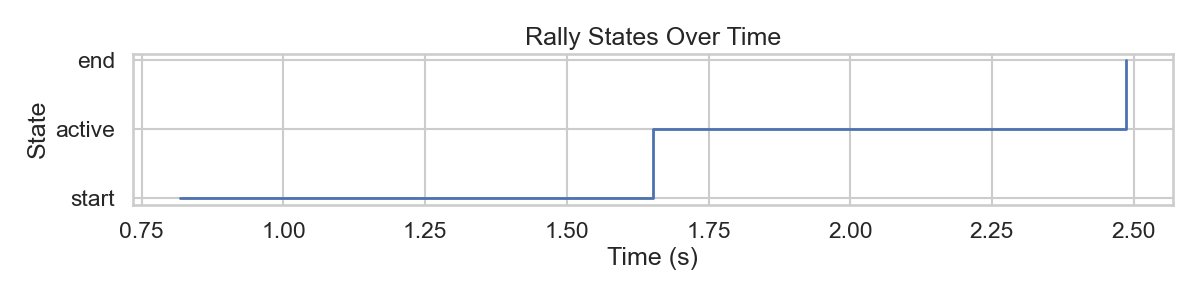
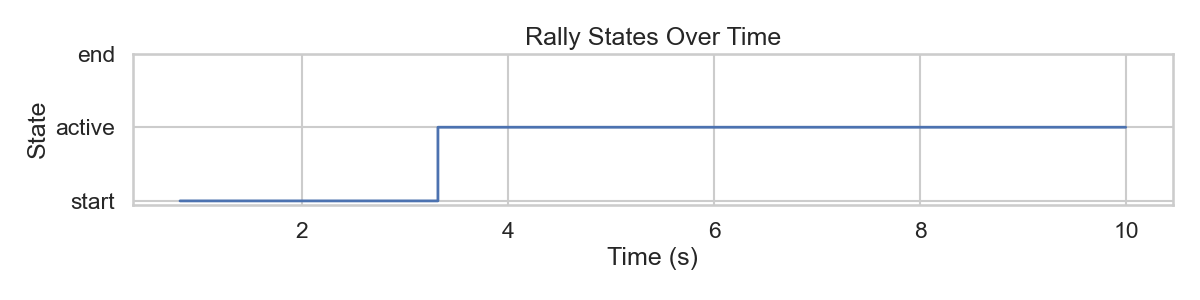
Add postprocessing to rally states

diff --git a/cv-module/full-pipeline/data/data_collector.py b/cv-module/full-pipeline/data/data_collector.py
@@ -3,6 +3,7 @@
 from typing import Optional, List
 import numpy as np
 from scipy.signal import find_peaks
+from copy import deepcopy
 from .data_models import FrameData, PlayerData, BallData, CourtData, RallyData
 from .validators import DataValidator
 from .post_processors import TemporalSmoother, MissingDataHandler
@@ -36,6 +37,7 @@ class DataCollector:
         prominence: float = 50.0,
         width: int = 3,
         min_distance: int = 20,
+        min_states_duration: dict = {},
     ):
         """
         Initialize data collector.
@@ -51,6 +53,10 @@ class DataCollector:
             max_position_change: Maximum position change between frames
             handle_missing_data: Whether to handle missing data (post-processing)
             max_interpolation_frames: Maximum frames to interpolate
+            prominence: Minimum prominence for peak detection
+            width: Minimum width for peak detection
+            min_distance: Minimum distance between peaks
+            min_states_duration: Minimum duration for each rally state
         """
         self.enable_smoothing = enable_smoothing
         self.smoothing_window = smoothing_window
@@ -65,6 +71,7 @@ class DataCollector:
         self.prominence = prominence
         self.width = width
         self.min_distance = min_distance
+        self.min_states_duration = min_states_duration
 
         # Initialize validator (used during collection)
         self.validator = (
@@ -74,6 +81,18 @@ class DataCollector:
             )
             if enable_validation
             else None
+        )
+
+        self.smoother = TemporalSmoother(
+            window_size=self.smoothing_window,
+            median_window=self.median_window,
+            savgol_window=self.savgol_window,
+            savgol_poly=self.savgol_poly,
+            min_states_duration=self.min_states_duration,
+        )
+
+        self.interpolator = MissingDataHandler(
+            max_interpolation_frames=self.max_interpolation_frames
         )
 
         # Storage
@@ -203,10 +222,28 @@ class DataCollector:
         Returns:
             List of processed RallyData objects
         """
-        rallies = self._segment_rallies()
+        # Deep copy to avoid modifying raw_frame_history during post-processing
+        raw_frames = deepcopy(self.raw_frame_history)
+        rally_states = [f.rally_state for f in raw_frames]
+        rally_states_smoothed = self.smoother.smooth_rally_states(rally_states)
+
+        for i, frame in enumerate(raw_frames):
+            frame.rally_state = rally_states_smoothed[i]
+
+        rallies = self._segment_rallies(raw_frames)
         processed_rallies = []
         for rally in rallies:
             processed = self._post_process_rally(rally.rally_frames)
+            for frame in processed:
+                if (
+                    frame.player2.position is None
+                    or frame.player2.bbox is None
+                    or frame.player2.keypoints is None
+                    or frame.player2.real_position is None
+                ):
+                    print(
+                        f"Player 2 data missing for frame {frame.frame_number}, data: {frame.player2}"
+                    )
             processed_rallies.append(processed)
 
         # Flatten processed rallies into a single list of frames
@@ -246,13 +283,13 @@ class DataCollector:
 
         return rally_frames
 
-    def _segment_rallies(self) -> List[RallyData]:
+    def _segment_rallies(self, frames: List[FrameData]) -> List[RallyData]:
         """Segment frames into rallies based on rally state."""
         rallies = []
         current_rally = []
         in_rally = False
 
-        for frame in self.raw_frame_history:
+        for frame in frames:
             if frame.rally_state == "start" and not in_rally:
                 in_rally = True
                 current_rally = [frame]
@@ -294,11 +331,6 @@ class DataCollector:
             frames: List of frames to interpolate (modified in-place)
             validation_results: Validation results for each frame
         """
-        # Create interpolator
-        interpolator = MissingDataHandler(
-            max_interpolation_frames=self.max_interpolation_frames
-        )
-
         # Extract player and ball data
         p1_data = [f.player1 for f in frames]
         p2_data = [f.player2 for f in frames]
@@ -309,13 +341,13 @@ class DataCollector:
         ball_valid = [v["ball_valid"] for v in validation_results]
 
         # Interpolate each dataset
-        p1_interpolated = interpolator.handle_missing_player(
+        p1_interpolated = self.interpolator.handle_missing_player(
             p1_data, player_id=1, validation_results=p1_valid
         )
-        p2_interpolated = interpolator.handle_missing_player(
+        p2_interpolated = self.interpolator.handle_missing_player(
             p2_data, player_id=2, validation_results=p2_valid
         )
-        ball_interpolated = interpolator.handle_missing_ball(
+        ball_interpolated = self.interpolator.handle_missing_ball(
             ball_data, validation_results=ball_valid
         )
 
@@ -333,23 +365,15 @@ class DataCollector:
         Args:
             frames: List of frames to smooth (modified in-place)
         """
-        # Create smoother
-        smoother = TemporalSmoother(
-            window_size=self.smoothing_window,
-            median_window=self.median_window,
-            savgol_window=self.savgol_window,
-            savgol_poly=self.savgol_poly,
-        )
-
         # Extract player and ball data
         p1_data = [f.player1 for f in frames]
         p2_data = [f.player2 for f in frames]
         ball_data = [f.ball for f in frames]
 
         # Smooth each dataset
-        p1_smoothed = smoother.smooth_player_positions(p1_data, player_id=1)
-        p2_smoothed = smoother.smooth_player_positions(p2_data, player_id=2)
-        ball_smoothed = smoother.smooth_ball_positions(ball_data)
+        p1_smoothed = self.smoother.smooth_player_positions(p1_data, player_id=1)
+        p2_smoothed = self.smoother.smooth_player_positions(p2_data, player_id=2)
+        ball_smoothed = self.smoother.smooth_ball_positions(ball_data)
 
         # Update frames in-place
         for i, frame in enumerate(frames):

diff --git a/cv-module/full-pipeline/data/post_processors.py b/cv-module/full-pipeline/data/post_processors.py
@@ -4,7 +4,7 @@ from collections import deque
 from typing import Optional, Tuple, List
 import numpy as np
 from scipy.signal import medfilt, savgol_filter
-from .data_models import PlayerData, BallData
+from .data_models import FrameData, PlayerData, BallData
 
 
 class TemporalSmoother:
@@ -16,6 +16,7 @@ class TemporalSmoother:
         median_window: int = 5,
         savgol_window: int = 11,
         savgol_poly: int = 3,
+        min_states_duration: dict = {},
     ):
         """
         Initialize temporal smoother.
@@ -25,6 +26,7 @@ class TemporalSmoother:
             median_window: Window size for median filter (must be odd)
             savgol_window: Window length for Savitzky-Golay filter (must be odd)
             savgol_poly: Polynomial order for Savitzky-Golay filter
+            min_states_duration: Minimum duration for each rally state
         """
         self.window_size = window_size
         self.median_window = (
@@ -39,6 +41,7 @@ class TemporalSmoother:
             2: deque(maxlen=window_size),
         }
         self.ball_position_history = deque(maxlen=window_size)
+        self.min_states_duration = min_states_duration
 
     def smooth_player_positions(
         self, player_data_list: List[PlayerData], player_id: int
@@ -162,6 +165,59 @@ class TemporalSmoother:
                 smoothed.append(ball_data if ball_data else BallData())
 
         return smoothed
+
+    def smooth_rally_states(self, rally_states: List[str]) -> List[str]:
+        postprocessed = rally_states.copy()
+
+        valid_transitions = {
+            "start": ["start", "active"],
+            "active": ["active", "end"],
+            "end": ["end", "start"],
+        }
+
+        # Always start with "start" state
+        current_committed_state = postprocessed[0]
+        print(f"Starting with state: {current_committed_state}")
+
+        i = 1
+        while i < len(rally_states):
+            candidate_state = rally_states[i]
+
+            # Check if this is a valid transition
+            if candidate_state not in valid_transitions[current_committed_state]:
+                # Invalid transition - replace with current committed state
+                postprocessed[i] = current_committed_state
+                i += 1
+                continue
+
+            # If same state as current, just continue
+            if candidate_state == current_committed_state:
+                postprocessed[i] = current_committed_state
+                i += 1
+                continue
+
+            # Valid new state - check if it persists long enough
+            # Count consecutive occurrences of this candidate state
+            count = 1
+            j = i + 1
+            while j < len(rally_states) and rally_states[j] == candidate_state:
+                count += 1
+                j += 1
+
+            # Check if candidate state meets minimum duration requirement
+            if count >= self.min_states_duration.get(candidate_state, 3):
+                # Real transition - commit it
+                for k in range(i, j):
+                    postprocessed[k] = candidate_state
+                current_committed_state = candidate_state
+                i = j
+            else:
+                # Fluctuation - reject it and replace with current committed state
+                for k in range(i, j):
+                    postprocessed[k] = current_committed_state
+                i = j
+
+        return postprocessed
 
     def reset(self):
         """Reset smoothing history."""
@@ -338,22 +394,28 @@ class MissingDataHandler:
                 before_player.position[1]
                 + t * (after_player.position[1] - before_player.position[1]),
             )
+            interp_real_pos = (
+                before_player.real_position[0]
+                + t * (after_player.real_position[0] - before_player.real_position[0]),
+                before_player.real_position[1]
+                + t * (after_player.real_position[1] - before_player.real_position[1]),
+            )
 
             return PlayerData(
                 player_id=current_data.player_id,
                 position=interp_pos,
-                real_position=current_data.real_position,
-                bbox=current_data.bbox,
-                confidence=current_data.confidence,
-                keypoints=current_data.keypoints,
-                stroke_type=current_data.stroke_type,
+                real_position=interp_real_pos,
+                bbox=before_player.bbox,
+                confidence=before_player.confidence,
+                keypoints=before_player.keypoints,
+                stroke_type=before_player.stroke_type,
             )
         elif before_idx is not None:
+            # Use last valid position as fallback
             return player_data_list[before_idx]
         elif after_idx is not None:
+            # Use next valid position as fallback
             return player_data_list[after_idx]
-        else:
-            return current_data
 
     def reset(self):
         """Reset handler state."""

diff --git a/cv-module/full-pipeline/config.py b/cv-module/full-pipeline/config.py
@@ -4,7 +4,7 @@ Pipeline configuration settings.
 This module centralizes all configurable parameters for the video processing pipeline.
 """
 
-from dataclasses import dataclass
+from dataclasses import dataclass, field
 from typing import Optional
 
 
@@ -18,6 +18,13 @@ class DataCollectorConfig:
     median_window: int = 5
     savgol_window: int = 11
     savgol_poly: int = 3
+    min_states_duration: dict = field(
+        default_factory=lambda: {
+            "start": 50,
+            "active": 200,
+            "end": 200,
+        }
+    )
 
     # Validation options
     enable_validation: bool = True
@@ -26,7 +33,7 @@ class DataCollectorConfig:
 
     # Missing data handling
     handle_missing_data: bool = True
-    max_interpolation_frames: int = 10
+    max_interpolation_frames: int = 20
 
     # Ball hit options
     prominence: float = 50.0

diff --git a/cv-module/full-pipeline/pipeline.py b/cv-module/full-pipeline/pipeline.py
@@ -56,6 +56,7 @@ class Pipeline:
             prominence=self.config.data_collector.prominence,
             width=self.config.data_collector.width,
             min_distance=self.config.data_collector.min_distance,
+            min_states_duration=self.config.data_collector.min_states_duration,
         )
 
         # Initialize Visualizer with its config
